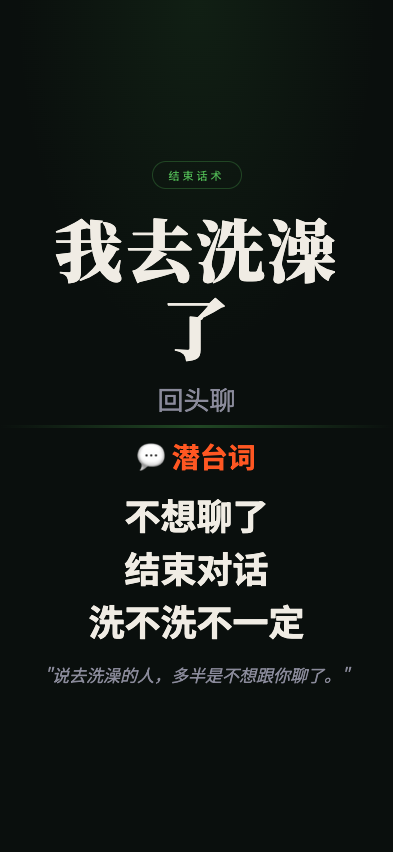
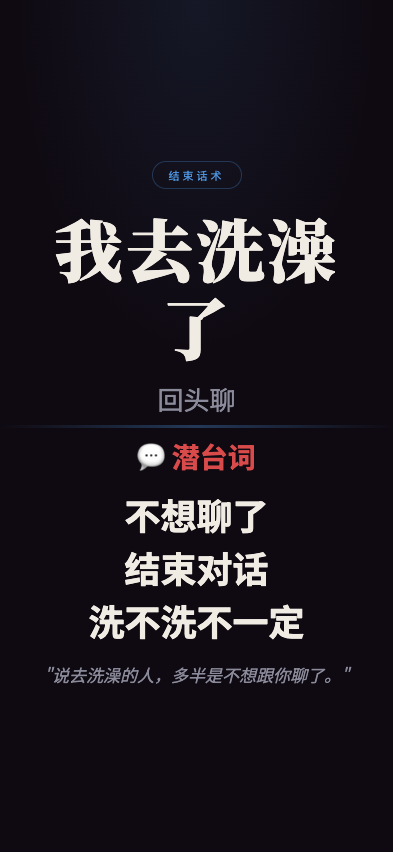
feat: 职场生存法则 screenshot - woquxizaole

Changed region(s): [[0.2137, 0.4883, 0.7634, 0.5493], [0.4275, 0.1831, 0.5802, 0.2136]]

diff --git a/wuliao-tools/tools/biz-speak/scenes/woquxizaole.html b/wuliao-tools/tools/biz-speak/scenes/woquxizaole.html
@@ -7,11 +7,11 @@
 <link href="https://fonts.googleapis.com/css2?family=Noto+Serif+SC:wght@400;700;900&family=Noto+Sans+SC:wght@300;400;700&display=swap" rel="stylesheet">
 <style>
   :root {
-    --bg: #0a0f0d;
+    --bg: #0f0a12;
     --text: #f0ece4;
     --text-dim: #8a8a9a;
-    --gold: #4caf50;
-    --red: #ff5722;
+    --gold: #4a90d9;
+    --red: #d94a4a;
   }
   * { margin:0; padding:0; box-sizing:border-box; }
   html, body { width:100%; height:100%; overflow:hidden; }
@@ -24,11 +24,11 @@
   }
   body::before {
     content:''; position:absolute; top:0; left:0; right:0; height:45%;
-    background:radial-gradient(ellipse at 50% 0%, rgba(76,175,80,0.1) 0%, transparent 65%);
+    background:radial-gradient(ellipse at 50% 0%, rgba(74,144,217,0.1) 0%, transparent 65%);
     pointer-events:none; z-index:0;
   }
   .top { flex:1; display:flex; flex-direction:column; align-items:center; justify-content:flex-end; padding:4px 28px 8px; position:relative; z-index:1; }
-  .tag { font-size:11px; letter-spacing:3px; color:var(--gold); border:1px solid rgba(76,175,80,0.3); padding:5px 16px; border-radius:50px; margin-bottom:20px; }
+  .tag { font-size:11px; letter-spacing:3px; color:var(--gold); border:1px solid rgba(74,144,217,0.3); padding:5px 16px; border-radius:50px; margin-bottom:20px; }
   .main-title { font-family:'Noto Serif SC'; font-size:68px; font-weight:900; text-align:center; line-height:1.15; letter-spacing:3px; min-width:0; overflow-wrap:break-word; max-width:92%; }
   .sub-title { font-size:26px; color:var(--text-dim); text-align:center; margin-top:14px; }
   .divider { width:100%; height:3px; background:linear-gradient(90deg,transparent,var(--gold),transparent); opacity:0.35; flex-shrink:0; position:relative; z-index:1; }
